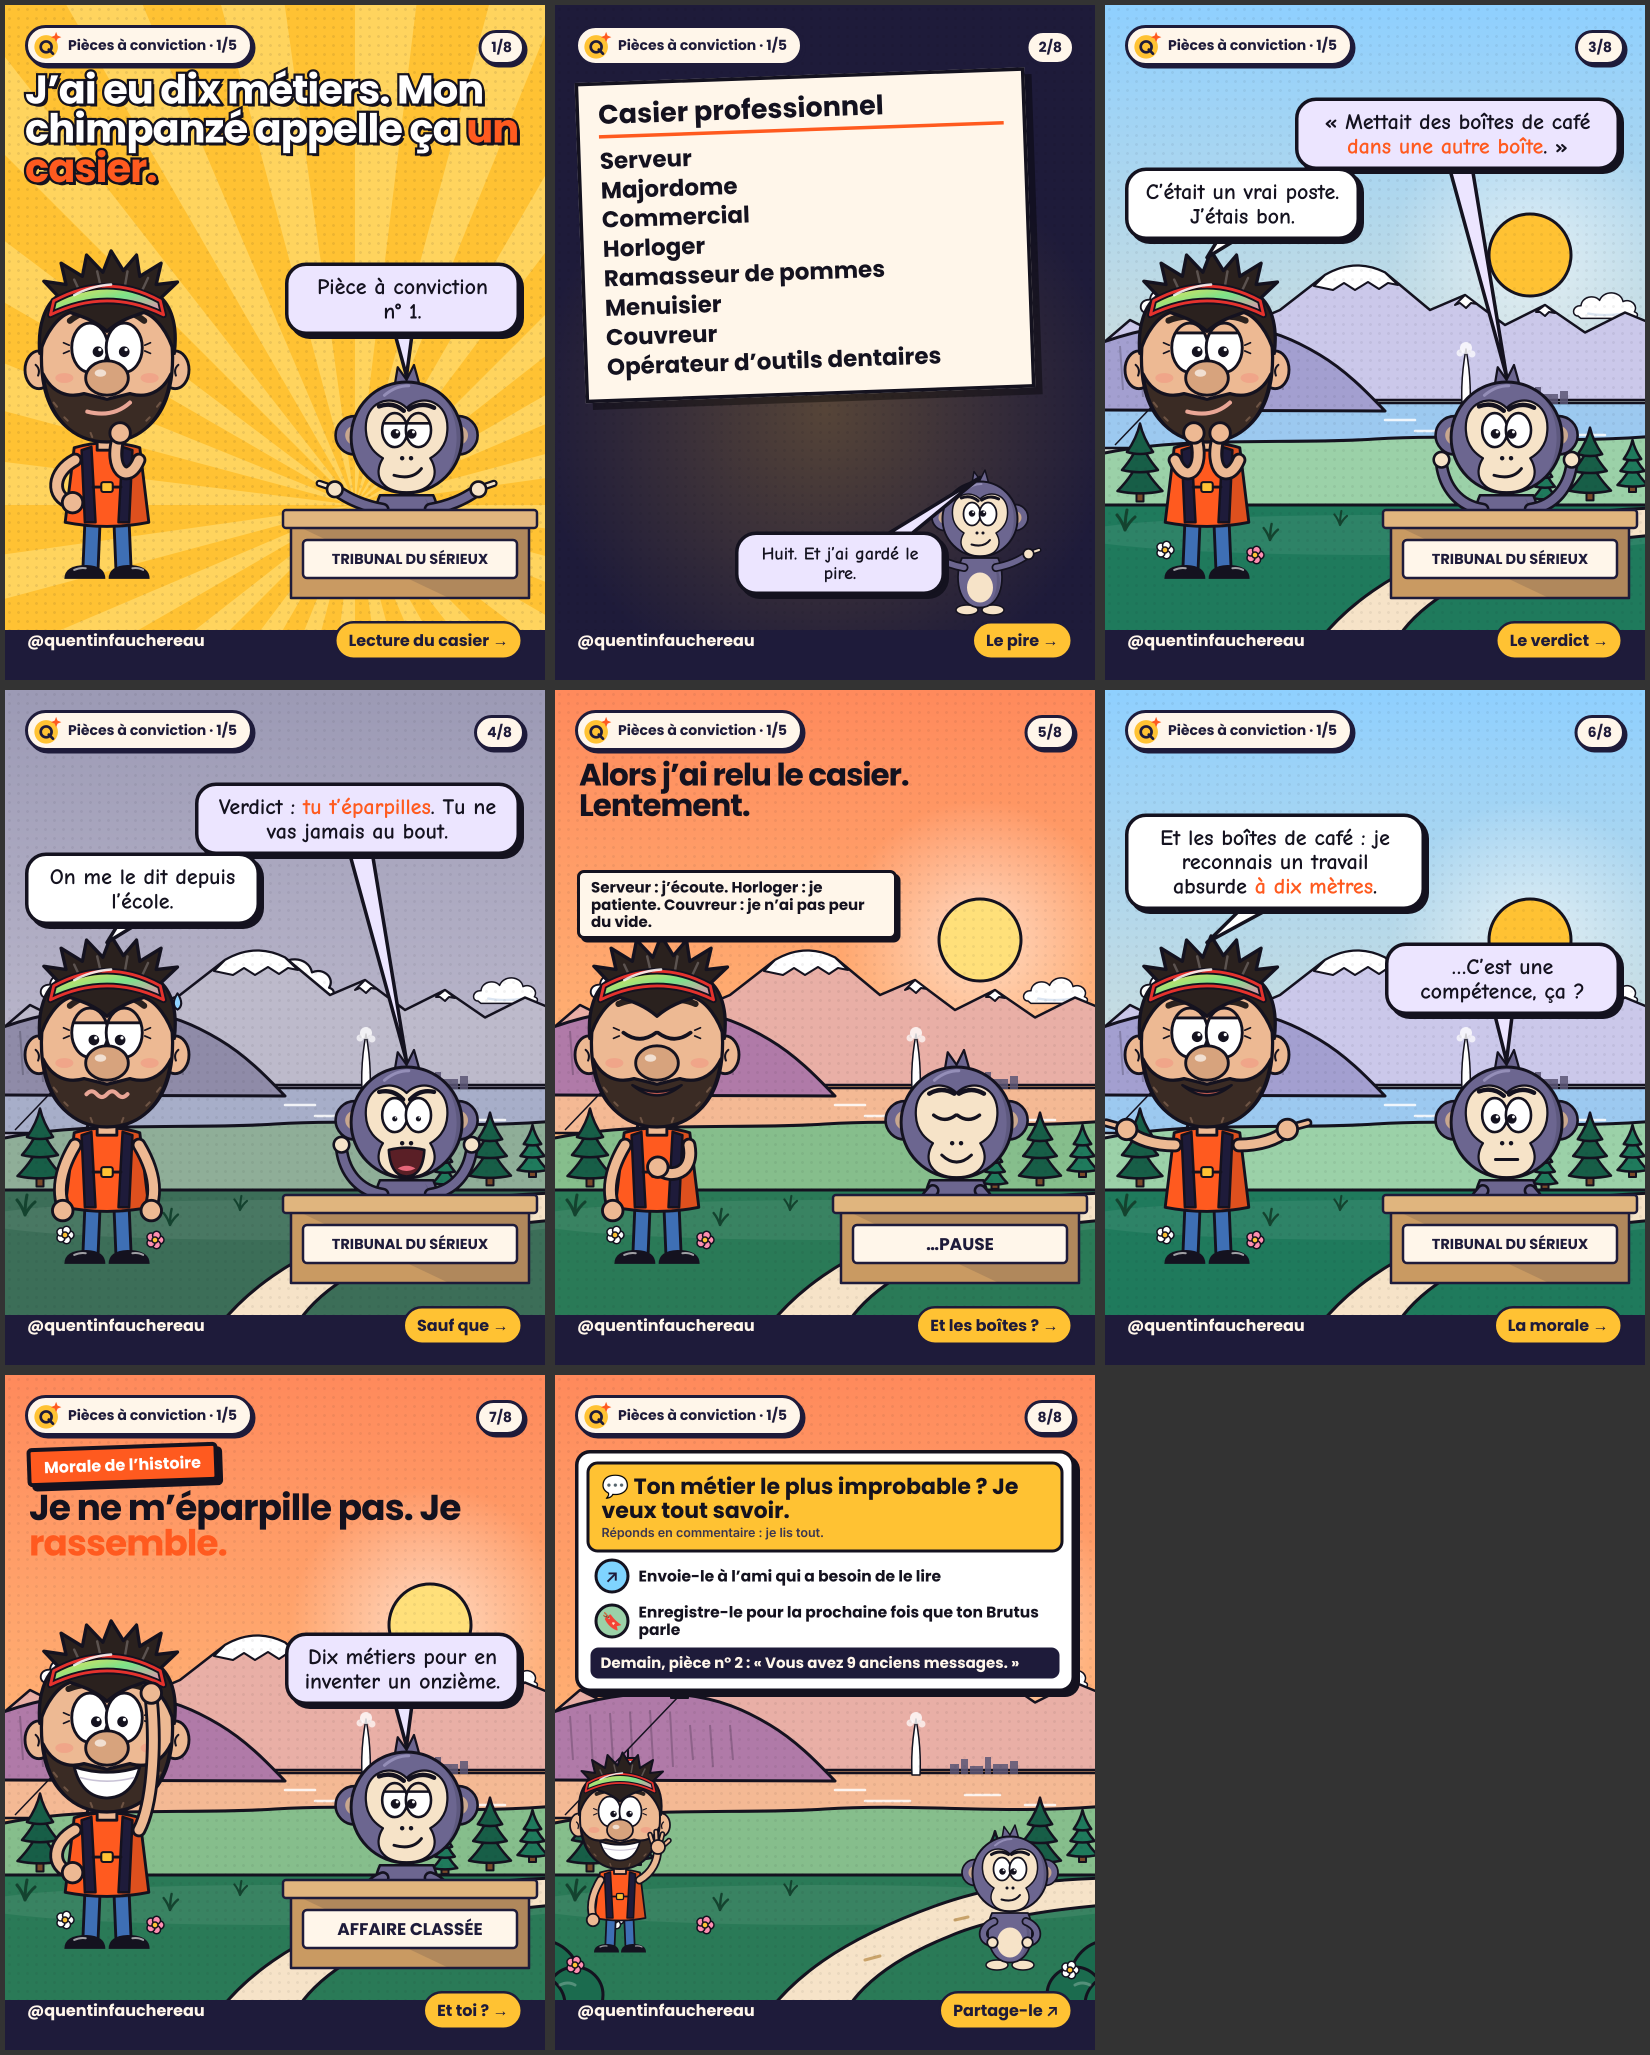
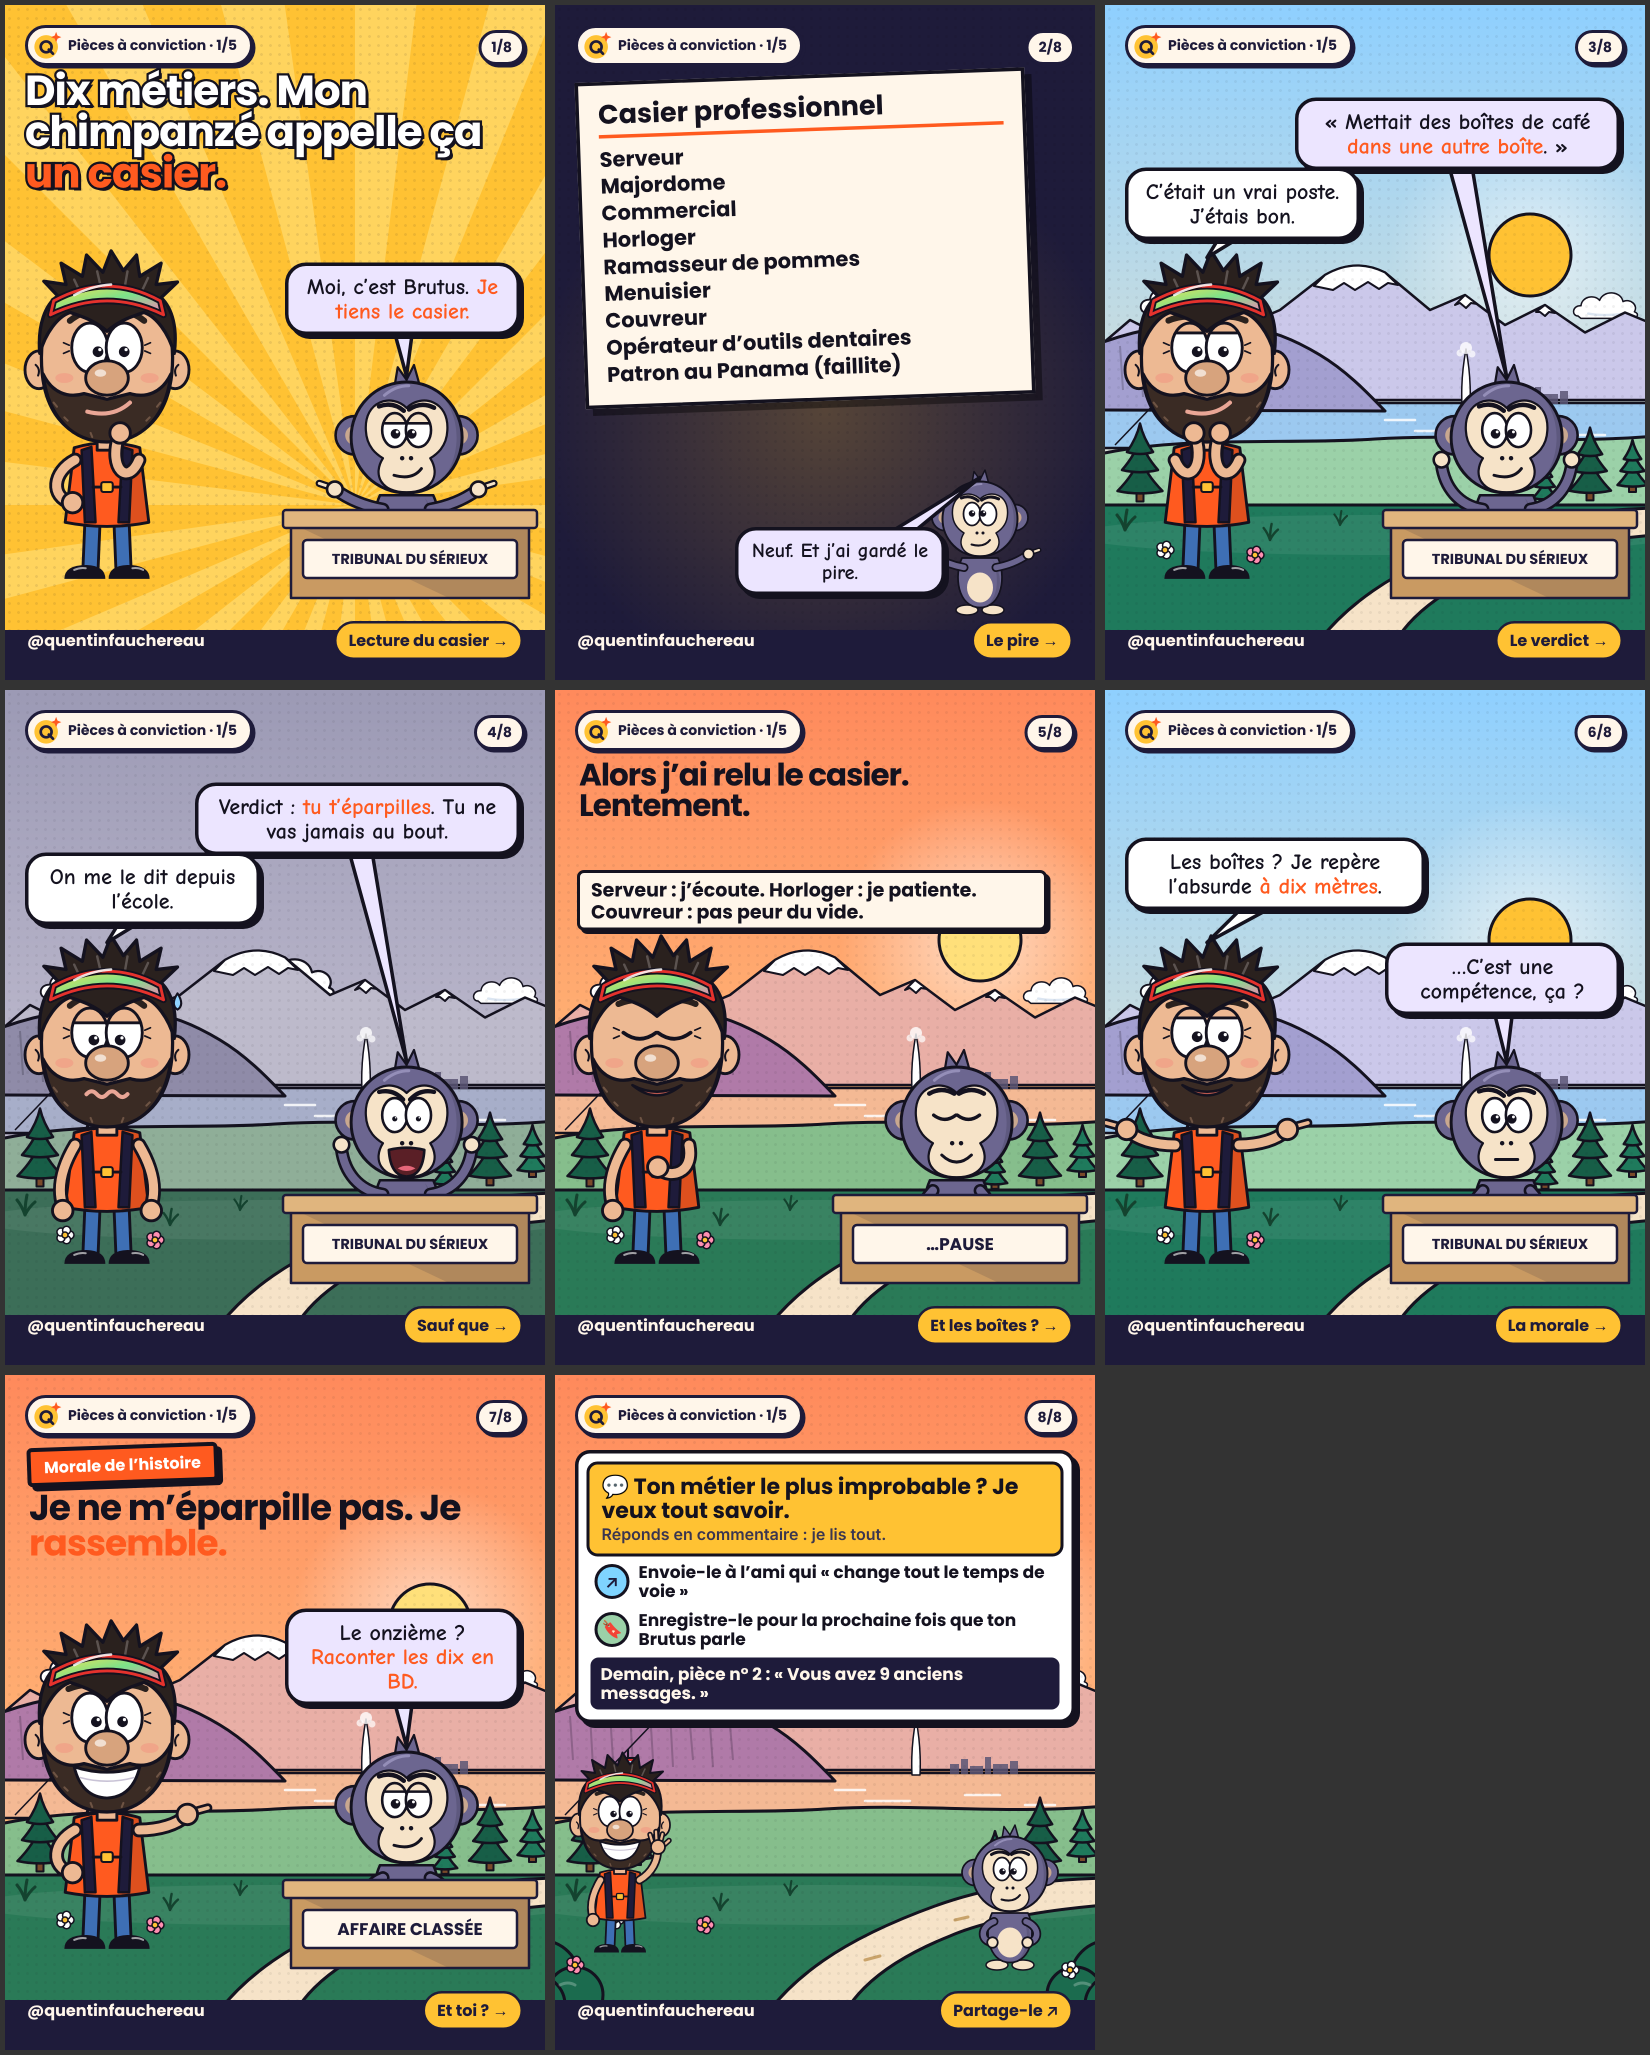
21 Pièce CV : dix métiers cohérents, Brutus présenté, morale concrète ; gabarits vrai/fin3 plus lisibles
Claude-Session: https://claude.ai/code/session_01Ur5KmPTCazZvb9fFnorLVu

diff --git a/episodes/21-piece-cv.js b/episodes/21-piece-cv.js
@@ -1,15 +1,15 @@
 // Pièces à conviction 1/5 — Le CV. On ose : assumer d'avoir fait mille choses.
 const { vrai, nb, fl } = require('../src/vrai.js');
 module.exports = vrai({
-  slug: '21-piece-cv', series: 'Pièces à conviction · 1/5', sign: 'TRIBUNAL DU SÉRIEUX', bg: '#1E1B3A',
+  slug: '21-piece-cv', series: 'Pièces à conviction · 1/5', sign: 'TRIBUNAL DU SÉRIEUX', bg: '#1E1B3A', envoie: `l’ami qui «${nb}change tout le temps de voie${nb}»`,
   slides: [
-    { type: 'hook', text: `J’ai eu dix métiers. Mon chimpanzé appelle ça ${fl('un casier.')}`, size: 80, c: `Pièce à conviction n°${nb}1.`, cta: 'Lecture du casier →' },
-    { type: 'doc', title: 'Casier professionnel', lines: ['Serveur', 'Majordome', 'Commercial', 'Horloger', 'Ramasseur de pommes', 'Menuisier', 'Couvreur', 'Opérateur d’outils dentaires'], c: `Huit. Et j'ai gardé le pire.`, cta: 'Le pire →' },
+    { type: 'hook', text: `Dix métiers. Mon chimpanzé appelle ça ${fl('un casier.')}`, size: 84, c: `Moi, c’est Brutus. <b>Je tiens le casier.</b>`, cta: 'Lecture du casier →' },
+    { type: 'doc', title: 'Casier professionnel', lines: ['Serveur', 'Majordome', 'Commercial', 'Horloger', 'Ramasseur de pommes', 'Menuisier', 'Couvreur', 'Opérateur d’outils dentaires', 'Patron au Panama (faillite)'], lineSize: 42, c: `Neuf. Et j'ai gardé le pire.`, cta: 'Le pire →' },
     { type: 'talk', c: `«${nb}Mettait des boîtes de café <b>dans une autre boîte</b>.${nb}»`, q: `C'était un vrai poste. J'étais bon.`, qm: 'smirk', cta: 'Le verdict →' },
     { type: 'low', c: `Verdict${nb}: <b>tu t'éparpilles</b>. Tu ne vas jamais au bout.`, q: `On me le dit depuis l'école.`, cta: 'Sauf que →' },
-    { type: 'turn', text: 'Alors j’ai relu le casier. Lentement.', cap: `Serveur${nb}: j'écoute. Horloger${nb}: je patiente. Couvreur${nb}: je n'ai pas peur du vide.`, cta: 'Et les boîtes ? →' },
-    { type: 'talk', first: 'q', q: `Et les boîtes de café${nb}: je reconnais un travail absurde <b>à dix mètres</b>.`, c: `…C'est une compétence, ça${nb}?`, qm: 'smile', cm: 'small', ca: 'rub', arms: 'point', cta: 'La morale →' },
-    { type: 'morale', text: `Je ne m’éparpille pas. Je ${fl('rassemble.')}`, size: 84, c: `Dix métiers pour en inventer un onzième.`, cta: 'Et toi ? →' },
+    { type: 'turn', text: 'Alors j’ai relu le casier. Lentement.', cap: `Serveur${nb}: j’écoute. Horloger${nb}: je patiente. Couvreur${nb}: pas peur du vide.`, cta: 'Et les boîtes ? →' },
+    { type: 'talk', first: 'q', q: `Les boîtes${nb}? Je repère l’absurde <b>à dix mètres</b>.`, c: `…C'est une compétence, ça${nb}?`, qm: 'smile', cm: 'small', ca: 'rub', arms: 'point', cta: 'La morale →' },
+    { type: 'morale', text: `Je ne m’éparpille pas. Je ${fl('rassemble.')}`, size: 84, c: `Le onzième${nb}? <b>Raconter les dix en BD.</b>`, cta: 'Et toi ? →' },
     { type: 'fin', question: `Ton métier le plus improbable${nb}? Je veux tout savoir.`, teaser: `Demain, pièce n°${nb}2${nb}: «${nb}Vous avez 9 anciens messages.${nb}»` },
   ],
 });

diff --git a/src/vrai.js b/src/vrai.js
@@ -27,17 +27,17 @@ const make = {
       <div style="font-size:54px;line-height:1.05;border-bottom:7px solid ${C.flamme};padding-bottom:12px;margin-bottom:16px">${s.title}</div>
       ${s.lines.map((l) => `<div style="font-size:${s.lineSize || 46}px;line-height:1.28">${l}</div>`).join('')}</div>
     ${S(G.brutus({ x: 760, y: 930, s: 0.5, arms: 'point', mouth: 'smirk', eyes: { px: -10, py: -12 }, brows: 'sly' }))}
-    ${bulle({ x: 360, yb: 1180, w: 420, who: 'b', size: 36, to: tb({ x: 760, y: 930, s: 0.5 }), text: s.c })}`,
+    ${bulle({ x: 360, yb: 1180, w: 420, who: 'b', size: 40, to: tb({ x: 760, y: 930, s: 0.5 }), text: s.c })}`,
   talk: (s, e) => scene(G.saleve2(), { arms: QA[s.arms] || 'chin', mouth: qm(s.qm || 'flat'), eyes: { px: 8, lid: 0.2 }, brows: 'flat' },
     { arms: BA[s.ca] || 'up', mouth: BM[s.cm] || s.cm || 'smirk', eyes: { px: -8 }, brows: 'sly' },
     s.first === 'q' ? bQ(s.q, 440, 40, 600) + bB(s.c, 650, 560, 470) : bB(s.c, 330, 380, 650) + bQ(s.q, 470), e),
   low: (s, e) => scene(G.saleve2({ mood: 'gris' }), { arms: 'down', mouth: 'wobble', eyes: { px: 0, py: 8, lid: 0.3 }, brows: 'sad', sweat: true },
     { arms: 'up', mouth: 'scream', eyes: { mode: 'wide' }, brows: 'angry' }, bB(s.c, 330, 380, 650) + bQ(s.q, 470), e, s.sign),
   turn: (s, e) => scene(G.saleve2({ mood: 'or' }), { arms: { l: 'down', r: 'chest' }, mouth: 'smile', eyes: { mode: 'closed' }, brows: 'normal' },
-    { arms: 'down', mouth: 'smile', eyes: { mode: 'closed' } }, big(s.text, 62, 140, { w: 760 }) + narr(s.cap, { y: s.capY ? s.capY + 20 : 360, w: 640, size: 30, bg: C.creme, rot: 0 }), e, s.sign || '…PAUSE'),
+    { arms: 'down', mouth: 'smile', eyes: { mode: 'closed' } }, big(s.text, 62, 140, { w: 760 }) + narr(s.cap, { y: s.capY ? s.capY + 20 : 360, w: 940, size: 38, bg: C.creme, rot: 0 }), e, s.sign || '…PAUSE'),
   insight: (s, e) => scene(G.saleve2(), { arms: { l: 'hip', r: 'point' }, mouth: 'grin', eyes: { px: 8 } },
     { arms: 'down', mouth: 'wobble', eyes: { px: -8, py: 4 }, brows: 'sad' }, tag(s.tag || 'Ce que j’ai compris', { bg: C.soleil, color: I }) + big(s.text, Math.min(s.size || 60, 64), 230) + bB(s.c, 660), e),
-  morale: (s, e) => scene(G.saleve2({ mood: 'or' }), { arms: { l: 'hip', r: 'raise' }, mouth: 'grin', eyes: { px: 6 } },
+  morale: (s, e) => scene(G.saleve2({ mood: 'or' }), { arms: { l: 'hip', r: 'point' }, mouth: 'grin', eyes: { px: 6 } },
     { arms: 'hip', mouth: 'smirk', eyes: { px: -8, lid: 0.25 }, brows: 'sly' }, tag('Morale de l’histoire') + big(s.text, Math.min(s.size || 66, 72), 230) + bB(s.c, 660), e, s.sign || 'AFFAIRE CLASSÉE'),
   fin: (s, e) => `${G.saleve2({ mood: 'or' })}${S(G.quentin({ x: 30, y: 760, s: 0.5, arms: { l: 'down', r: 'wave' }, mouth: 'grin', eyes: { px: 6 } }) + G.brutus({ x: 820, y: 900, s: 0.5, arms: 'hip', mouth: 'smirk', eyes: { px: -8 } }))}${G.avantPlan()}
     ${fin3({ question: s.question, teaser: s.teaser, envoie: e.envoie, enregistre: e.enregistre })}`,

diff --git a/src/fin3.js b/src/fin3.js
@@ -3,11 +3,11 @@ const { C, G } = require('./ep.js');
 const I = G.I;
 const typo = (t) => String(t).replace(/'/g, '’');
 module.exports = function fin3({ question, teaser, envoie = 'l’ami qui a besoin de le lire', enregistre = 'pour la prochaine fois que ton Brutus parle' }) {
-  const row = (ico, bg, html) => `<div style="display:flex;align-items:center;gap:18px;padding:8px 16px"><div style="flex:none;width:70px;height:70px;border-radius:50%;background:${bg};border:6px solid ${I};display:flex;align-items:center;justify-content:center;font-size:34px">${ico}</div><div style="font-family:Poppins;font-weight:700;font-size:31px;line-height:1.12;color:${I}">${typo(html)}</div></div>`;
+  const row = (ico, bg, html) => `<div style="display:flex;align-items:center;gap:18px;padding:8px 16px"><div style="flex:none;width:70px;height:70px;border-radius:50%;background:${bg};border:6px solid ${I};display:flex;align-items:center;justify-content:center;font-size:34px">${ico}</div><div style="font-family:Poppins;font-weight:700;font-size:34px;line-height:1.12;color:${I}">${typo(html)}</div></div>`;
   return `<div class="abs" style="left:40px;right:40px;top:150px;z-index:4;background:#fff;border:7px solid ${I};border-radius:30px;box-shadow:10px 10px 0 ${I};padding:16px;display:flex;flex-direction:column;gap:4px">
-    <div style="padding:20px 24px;background:${C.soleil};border:6px solid ${I};border-radius:22px;font-family:Poppins;font-weight:700;font-size:44px;line-height:1.08;color:${I}">💬 ${typo(question)}<div style="font-family:Inter;font-weight:600;font-size:25px;margin-top:8px;color:#3A3550">Réponds en commentaire : je lis tout.</div></div>
+    <div style="padding:20px 24px;background:${C.soleil};border:6px solid ${I};border-radius:22px;font-family:Poppins;font-weight:700;font-size:44px;line-height:1.08;color:${I}">💬 ${typo(question)}<div style="font-family:Inter;font-weight:600;font-size:32px;margin-top:8px;color:#3A3550">Réponds en commentaire : je lis tout.</div></div>
     ${row('↗', '#7FD4FF', `Envoie-le à ${envoie}`)}
     ${row('🔖', '#9BD1A8', `Enregistre-le ${enregistre}`)}
-    ${teaser ? `<div style="margin:6px 8px 4px;padding:14px 20px;background:${C.nuit};border-radius:16px;font-family:Poppins;font-weight:700;font-size:30px;line-height:1.12;color:${C.creme}">${typo(teaser)}</div>` : ''}
+    ${teaser ? `<div style="margin:6px 8px 4px;padding:14px 20px;background:${C.nuit};border-radius:16px;font-family:Poppins;font-weight:700;font-size:34px;line-height:1.12;color:${C.creme}">${typo(teaser)}</div>` : ''}
   </div>`;
 };

diff --git a/IDEES.md b/IDEES.md
@@ -4,3 +4,4 @@
 - **Lisibilité sur téléphone, tous les carrousels** : le contrôle du 43 (28/11) a montré des textes à 26-34 px, illisibles sur téléphone (environ 9-12 px). Repasser les 18 autres carrousels : bulles au moins 40 px, encadrés au moins 36 px, sous-ligne de `actions()` (25 px) à agrandir pour tous. Lancer le sous-agent `controleur-visuel` sur chacun.
 - **Enjeu « mail » → enjeu « projet »** : vérifier dans les autres carrousels que la peur mise en scène est celle de créer / publier / se montrer, pas une peur de bureau.
 - **Récompense du mot à commenter** : la « fiche » envoyée en message privé répète la planche 5. Idée : un audio guidé de 5 minutes avec la voix de Quentin (à enregistrer en même temps que les voix du dessin animé).
+- **Gabarits communs modifiés le 28/11** (`src/vrai.js`, `src/fin3.js`) : textes agrandis, pose de la morale changée. Les carrousels 11-15, 22-25 et 51-55 doivent être reconstruits et revérifiés (sous-agents) avant leur publication.

diff --git a/carrousels/21-piece-cv/legende.md b/carrousels/21-piece-cv/legende.md
@@ -1,12 +1,12 @@
 # 21-piece-cv
 
-J'ai eu dix métiers. Mon chimpanzé appelle ça un casier.
+Dix métiers. Mon chimpanzé appelle ça un casier.
 
-Serveur. Majordome. Commercial. Horloger. Ramasseur de pommes. Menuisier. Couvreur. Et mettre des boîtes de café dans une autre boîte.
+Serveur. Majordome. Commercial. Horloger. Ramasseur de pommes. Menuisier. Couvreur. Opérateur d'outils dentaires. Patron d'une entreprise au Panama (faillite). Et mettre des boîtes de café dans une autre boîte.
 
 Brutus, mon chimpanzé intérieur, a rendu son verdict : « tu t'éparpilles ».
 
-Alors j'ai relu le casier. Serveur : j'écoute. Horloger : je patiente. Couvreur : je n'ai pas peur du vide. Les boîtes de café : je repère un travail absurde à dix mètres.
+Alors j'ai relu le casier. Serveur : j'écoute. Horloger : je patiente. Couvreur : pas peur du vide. Les boîtes de café : je repère un travail absurde à dix mètres.
 
 Je ne m'éparpille pas. Je rassemble.
 

diff --git a/carrousels/SOURCES.md b/carrousels/SOURCES.md
@@ -48,3 +48,6 @@ Chaque référence a été vérifiée avant publication (auteur, revue ou ouvrag
 
 ## Construction des carrousels
 - Eyal, N. (2014). *Hooked: How to Build Habit-Forming Products*. Modèle déclencheur → action → récompense variable → investissement, transposé ici au carrousel.
+
+## 21 — Pièces à conviction 1/5 : le CV
+- Aucune source externe : métiers et reproche « tu t'éparpilles » tirés de QUENTIN.md (vécu de Quentin). Les dix métiers = les 9 du casier (dont le Panama) + les boîtes de café. Vérifié le 28/11/2026.
